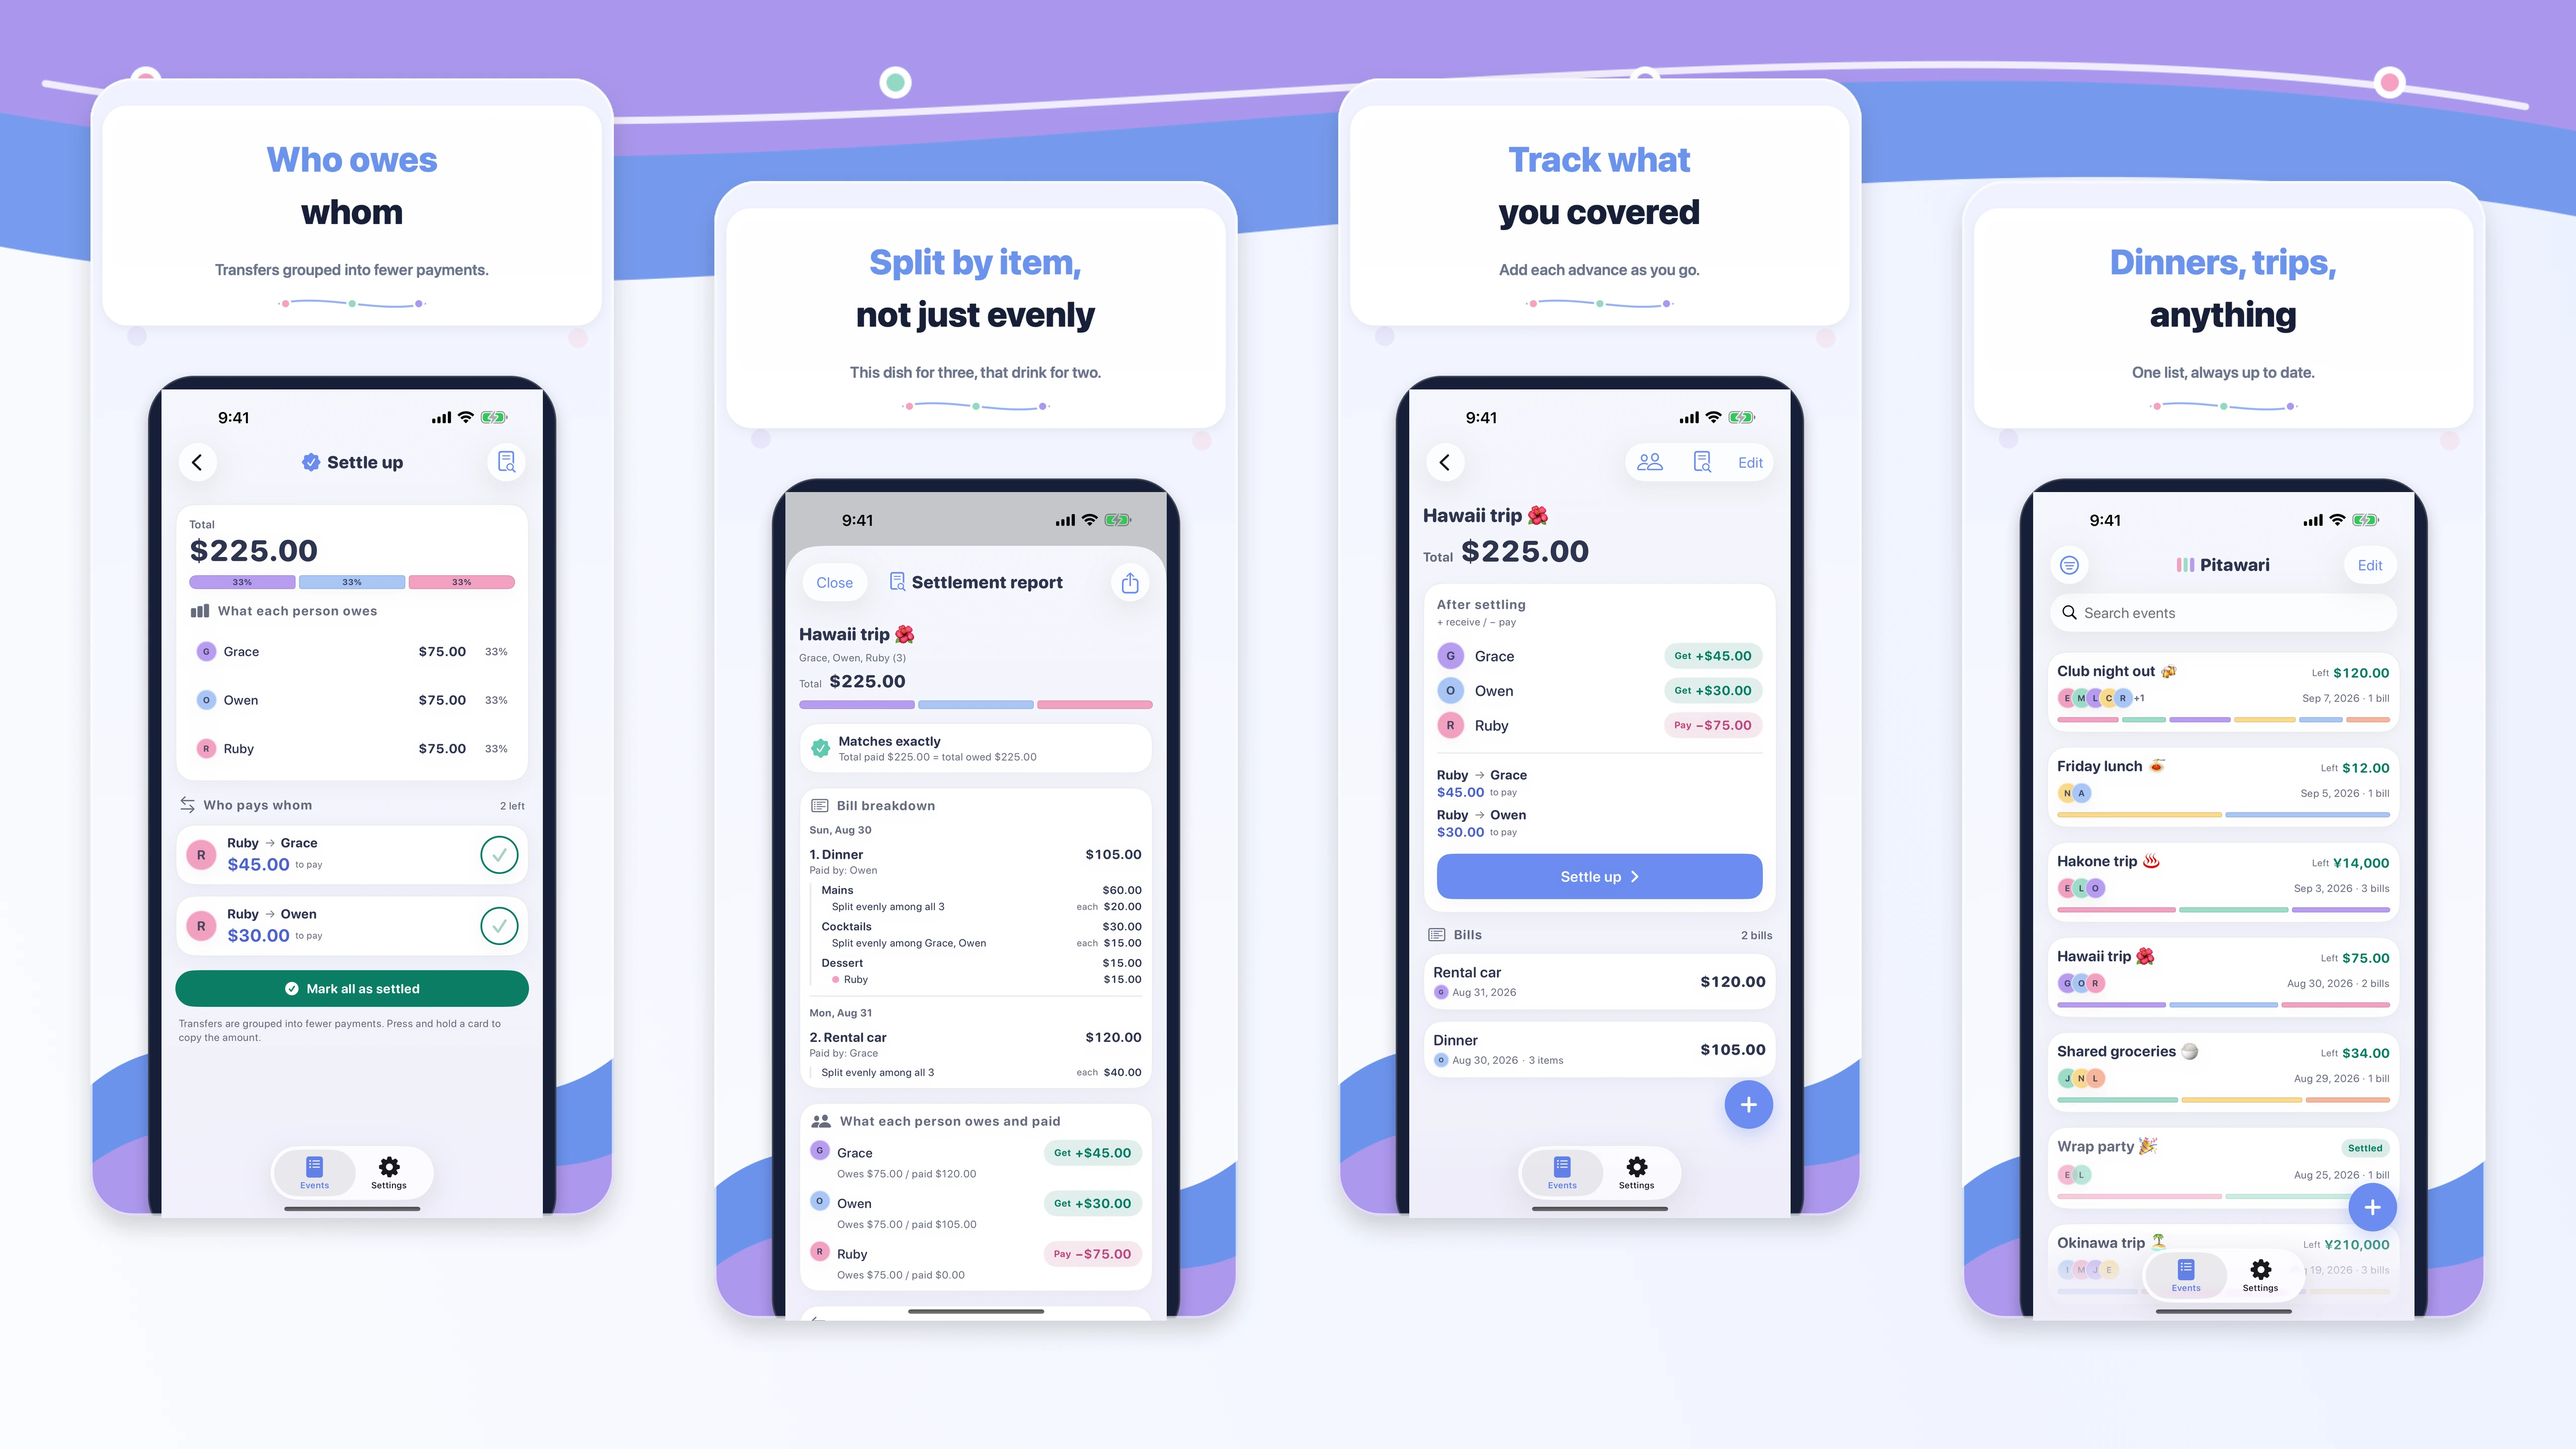
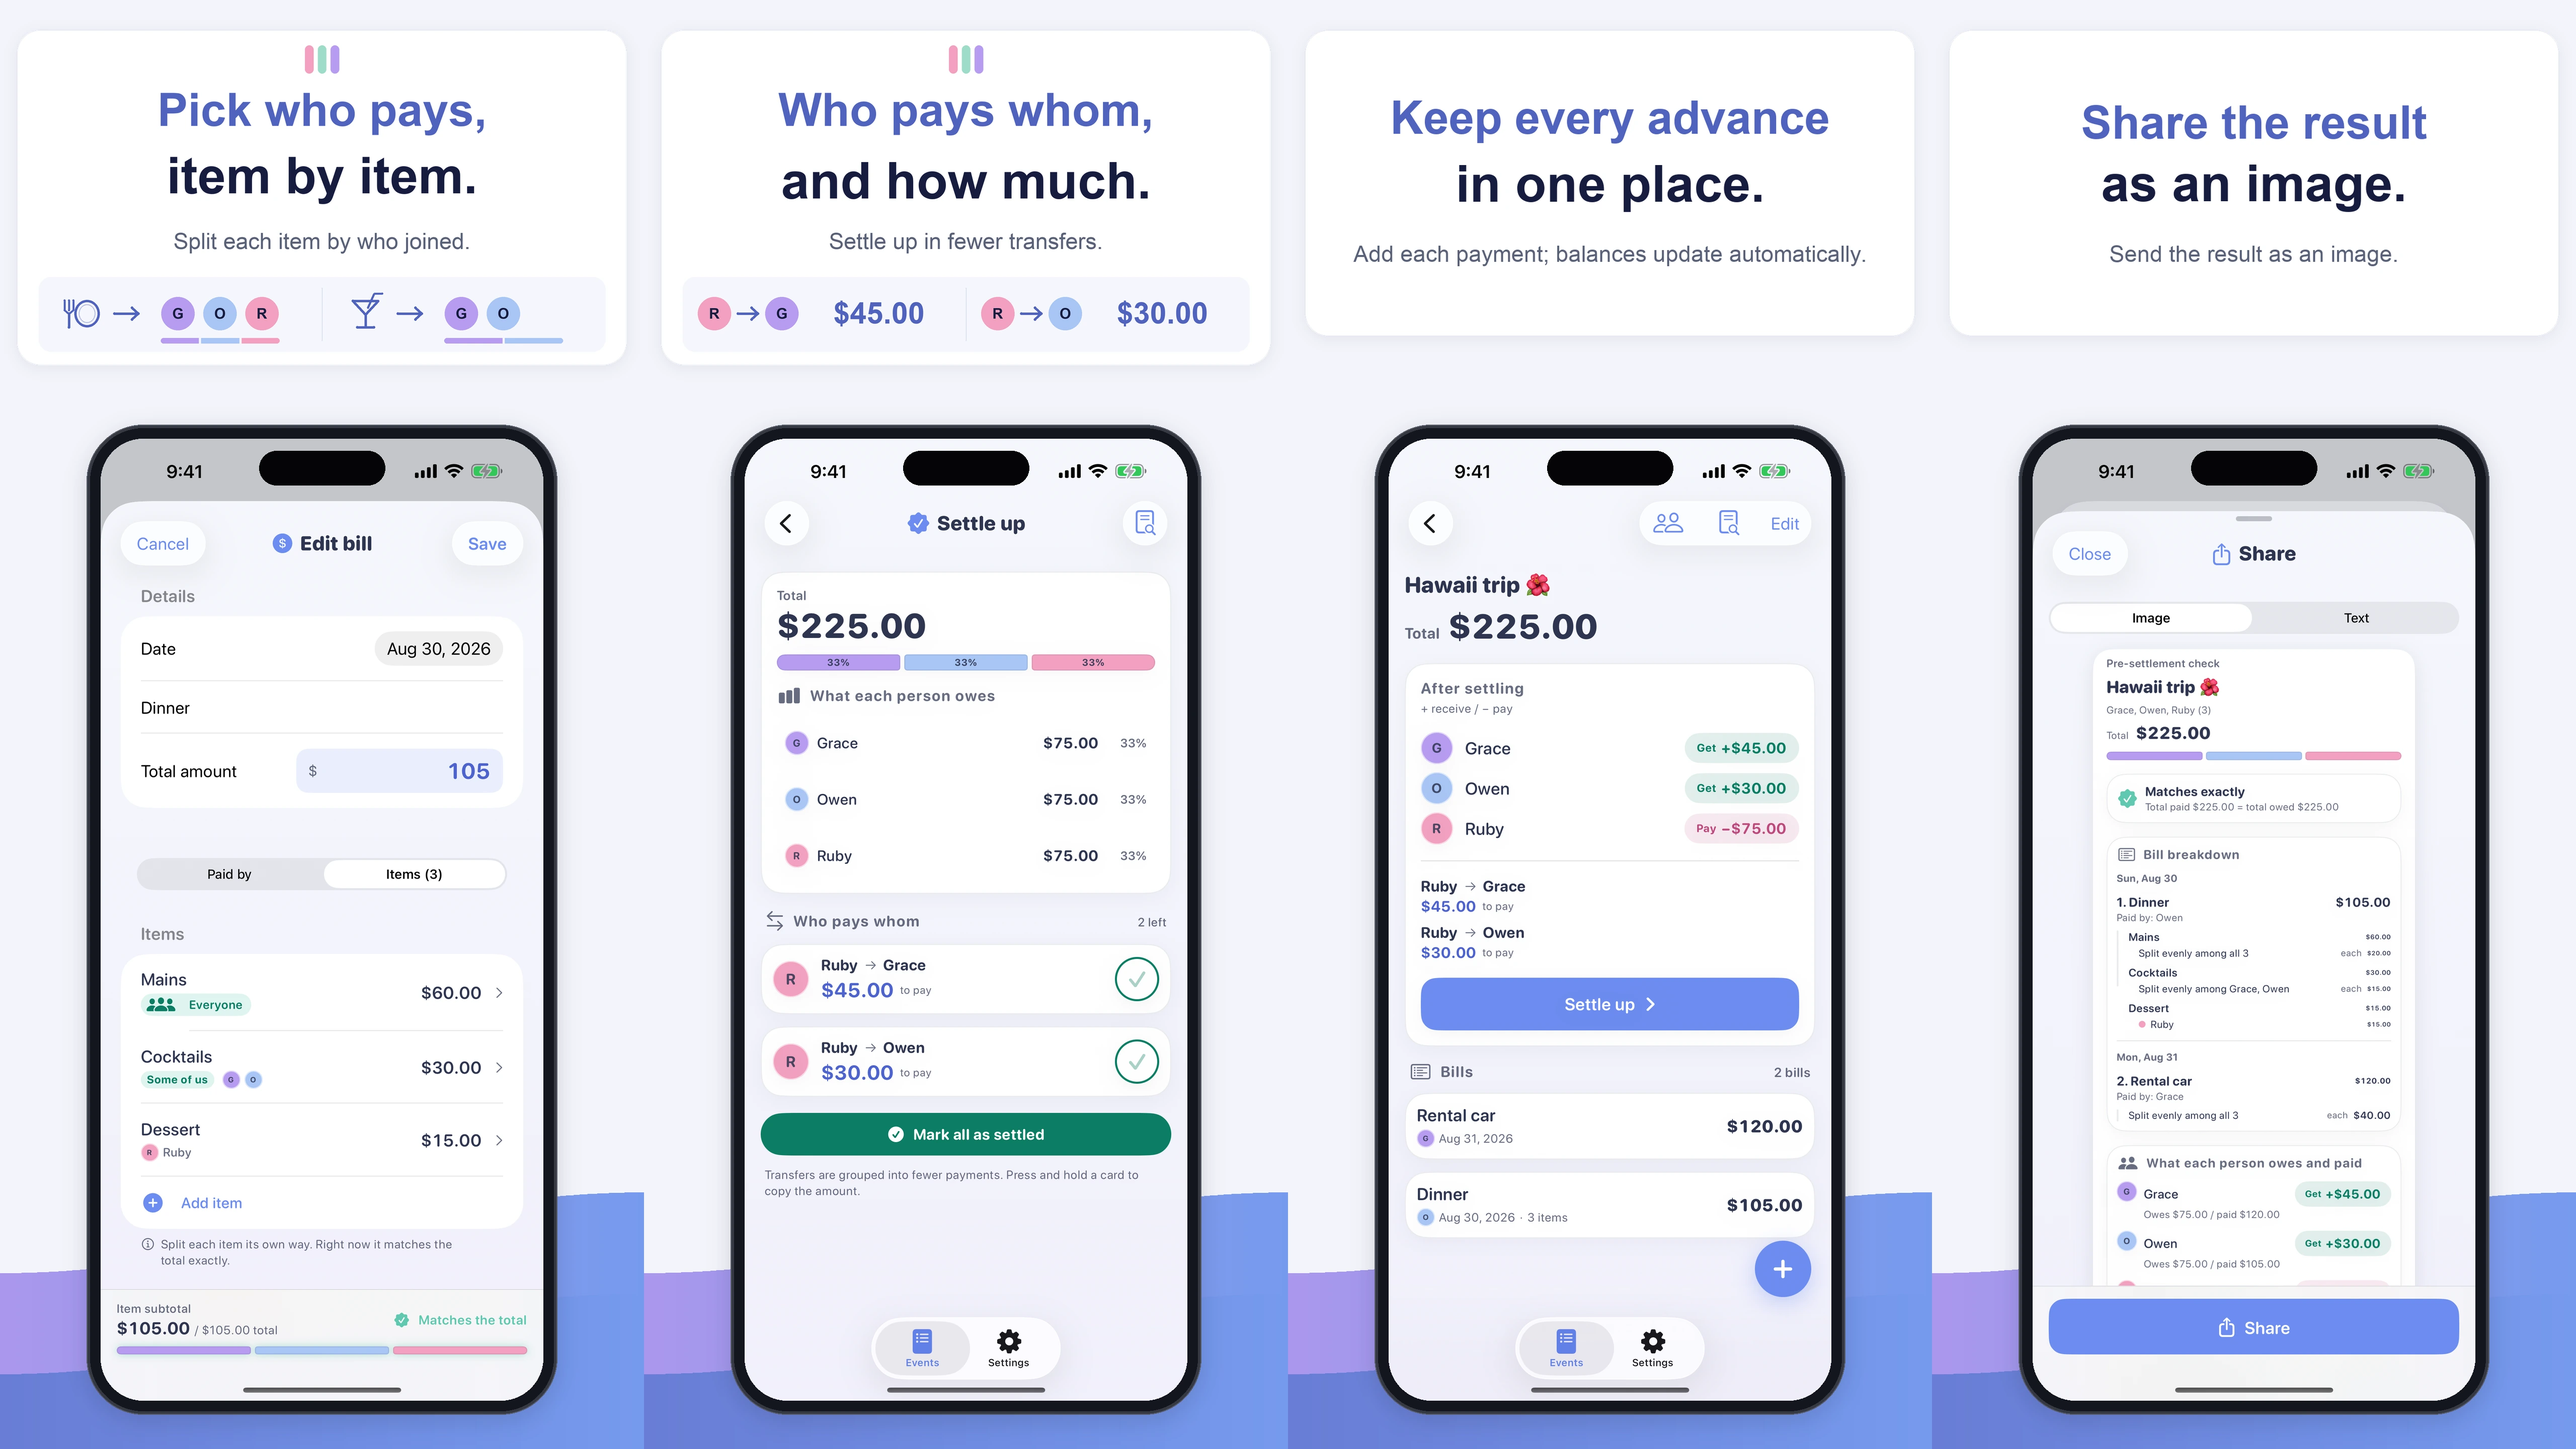
chore(pitawari): LP の合成画像を App Store 掲載画像と同じ型に揃える (#139)
掲載画像は 2026-09-08 に全面的に作り直した（端末1台・正立・水平中央）が、LP の
合成画像は旧デザイン（端末4台を傾けた手描き合成）のままで、構図もキャッチコピーも
別物になっていた。

4パネルを 640×1440 ずつ横に連結（全体 2560×1440 / @2x 5120×2880）。パネル数は
CSS が aspect-ratio:4/9 と left:calc(var(--i) * -100%) で4分割前提のため4のまま。
キャッチコピーは掲載画像の COPY 1〜4 をそのまま使い、1・2パネルには掲載画像と同じ
「証拠の帯」を入れた（1枚目＝品目ごとの負担者、2枚目＝送金の実額）。

画面は 03_bill / 04_settlement / 02_detail / 07_share で、掲載画像の並びと同じ。
英語は us_*（ハワイ旅行・USD）が素材。en_* は英語UIのまま日本のサンプルデータで、
使うと英語版に円建ての金額が出る。

生成スクリプトは Pitawari 側の release/tools/compose_lp_shots.py。旧 LP 合成は
背景・端末フレーム・キャプションカードが手描きの1枚絵で生成コードが無く、
refresh_lp_screens.py が中の画面だけ貼り替える回避策になっていた。今回でその制約は
解消した。

sr-only の4画面説明も新しいキャッチコピーに差し替えた（日英）。

Claude-Session: https://claude.ai/code/session_01U4vfAXjV1zFxfa7DxTbkco

diff --git a/pitawari/index.html b/pitawari/index.html
@@ -324,7 +324,7 @@
   <section class="shots" aria-label="アプリの画面">
     <div class="wrap">
       <figure class="shot">
-        <p class="sr-only">アプリの4画面。1. 精算画面「誰が誰に、いくら — 送金は少ない回数にまとめます。」2. 精算レポート「頼んだ品ごとに割れる — この皿は3人、この酒は2人。合計はぴったり一致。」3. イベントの詳細「立て替えも、まとめて — 払った人と金額を足していくだけ。」4. イベントの一覧「飲み会も、旅行も — イベントごとに分けて、いつでも見返せる。」</p>
+        <p class="sr-only">アプリの4画面。1. 会計の編集「明細ごとに、払う人を選べる — 食事もドリンクも、頼んだ人だけで。」2. 精算画面「誰が誰に、いくら — 送金を少ない回数にまとめます。」3. イベントの詳細「立て替えを、まとめて管理 — 支払いを残せば、残高は自動計算。」4. 共有「結果を、画像でシェア — 精算結果を、そのまま画像で送れます。」</p>
         <div class="shot-frame">
           <div class="shot-track">
             <button type="button" class="shot-slide" style="--i:0" aria-label="1枚目の画面を拡大"><img src="./app-image.webp" alt="" decoding="async"></button>

diff --git a/pitawari/en/index.html b/pitawari/en/index.html
@@ -324,7 +324,7 @@
   <section class="shots" aria-label="App screens">
     <div class="wrap">
       <figure class="shot">
-        <p class="sr-only">Four app screens. 1. The settle-up screen — “Who owes whom. Transfers grouped into fewer payments.” 2. The settlement report — “Split by item, not just evenly. This dish for three, that drink for two.” 3. An event’s detail — “Track what you covered. Add each advance as you go.” 4. The event list — “Dinners, trips, anything. One list, always up to date.”</p>
+        <p class="sr-only">Four app screens. 1. Editing a bill — “Pick who pays, item by item. Split each item by who joined.” 2. The settle-up screen — “Who pays whom, and how much. Settle up in fewer transfers.” 3. An event’s detail — “Keep every advance in one place. Add each payment; balances update automatically.” 4. Sharing — “Share the result as an image.”</p>
         <div class="shot-frame">
           <div class="shot-track">
             <button type="button" class="shot-slide" style="--i:0" aria-label="Enlarge screen 1"><img src="../app-image-en.webp" alt="" decoding="async"></button>
